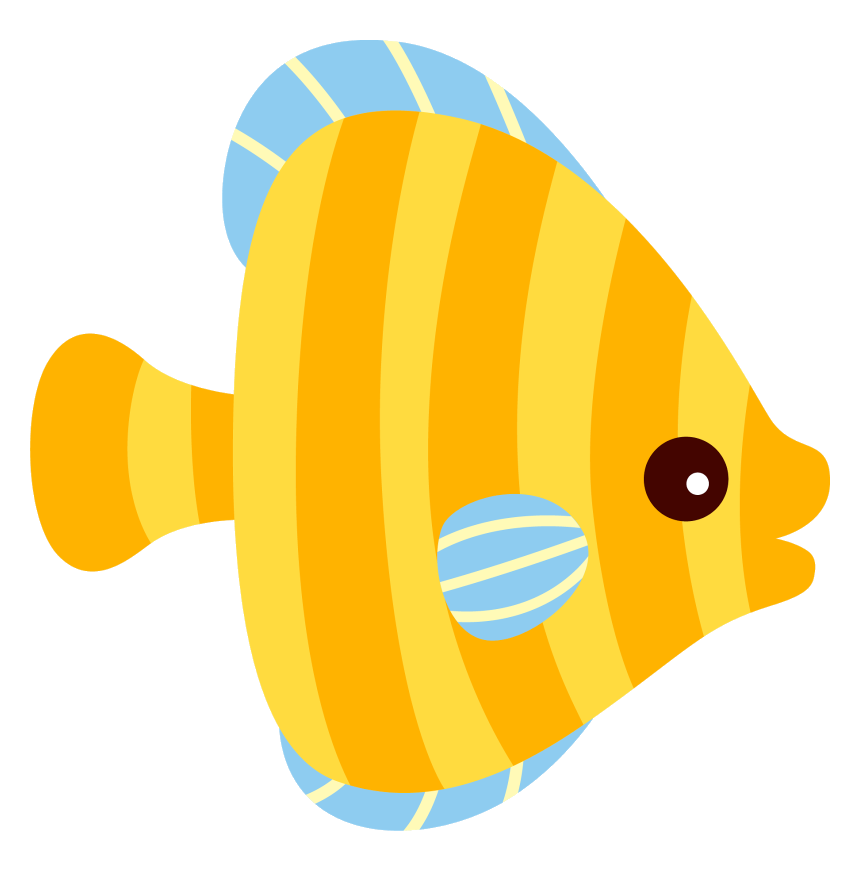
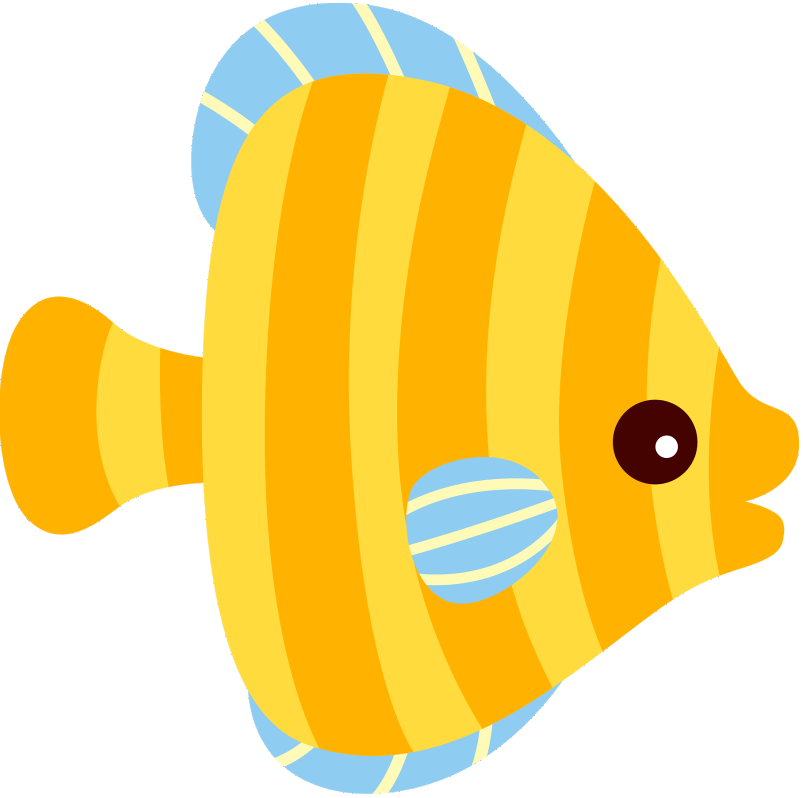
peixe colide com as algas e perde

Changed region(s): [[0.0, 0.0, 0.9963, 1.0], [0.4981, 0.2406, 0.5293, 0.4211]]

diff --git a/sala.py b/sala.py
@@ -9,7 +9,7 @@ imagem_peixe=r"imagem/peixe_amarelo.png"
 imagem_alga=r"imagem/alga-png-real.png"
 imagem_alga_invertida= r"imagem/alga-png-real-invertida.png"
 WIDTH = 800
-HEIGHT = 400
+HEIGHT = 600
 
 class alga(pygame.sprite.Sprite):
     def __init__(self,WIDTH,HEIGHT,numero):
@@ -19,6 +19,7 @@ class alga(pygame.sprite.Sprite):
         self.escala_y = self.alturas_alga[randint(0,3)]
         self.image = pygame.image.load(imagem_alga).convert_alpha()
         self.image = pygame.transform.scale(self.image, (60, self.escala_y))
+        self.mask = pygame.mask.from_surface(self.image)
         self.rect = self.image.get_rect()
         self.rect.x = WIDTH + 200*numero
         self.rect.y = HEIGHT-self.escala_y
@@ -39,10 +40,11 @@ class alga(pygame.sprite.Sprite):
 class alga_invertida(pygame.sprite.Sprite):
     def __init__(self,WIDTH,HEIGHT, algas):
         pygame.sprite.Sprite.__init__(self)
-        self.distancia= 110
+        self.distancia= 300
         self.escala_y_invertida= HEIGHT - algas.escala_y - self.distancia
         self.image = pygame.image.load(imagem_alga_invertida).convert_alpha()
         self.image = pygame.transform.scale(self.image, (60, self.escala_y_invertida))
+        self.mask = pygame.mask.from_surface(self.image)
         self.rect = self.image.get_rect()
         self.rect.x = algas.rect.x
         self.rect.y = 0
@@ -64,13 +66,14 @@ class peixe(pygame.sprite.Sprite):
         pygame.sprite.Sprite.__init__(self)
 
         self.image = pygame.image.load(imagem_peixe).convert_alpha()
-        self.image = pygame.transform.scale(self.image, (80, 40))
+        self.image = pygame.transform.scale(self.image, (40, 20))
+        self.mask = pygame.mask.from_surface(self.image)
         self.rect = self.image.get_rect()
         self.rect.x = WIDTH/2
         self.rect.y = HEIGHT/2
         self.speedx = 0
         self.speedy = 0
-        self.count = 2
+        self.count = 1
 
     def update(self):
         self.speedy += self.count
@@ -82,7 +85,7 @@ class peixe(pygame.sprite.Sprite):
             self.rect.y = 40
     
     def pulo(self):
-        self.speedy = -20
+        self.speedy = -10
        
 
 class fundo(pygame.sprite.Sprite):

diff --git a/game.py b/game.py
@@ -9,7 +9,7 @@ def jogo(window):
     imagem_alga_invertida= r"imagem/alga-png-real-invertida.png"
 
     WIDTH = 800
-    HEIGHT = 400
+    HEIGHT = 600
     
     clock = pygame.time.Clock()
     FPS = 30
@@ -55,23 +55,22 @@ def jogo(window):
         classe_fundo2.update()
         peixes.update()
         all_algas.update()
-        # algas_invertidas.update(alga1) 
         for event in pygame.event.get():
             if event.type == pygame.KEYDOWN:
                 if event.key == pygame.K_SPACE:
                     peixes.pulo()
             if event.type == pygame.QUIT:
                 game = False
+                return "QUIT"
 
         window.fill((173, 216, 230))
         window.blit(classe_fundo.image, (classe_fundo.rect.x, classe_fundo.rect.y))
         window.blit(classe_fundo2.image, (classe_fundo2.rect.x, classe_fundo2.rect.y))
         all_algas.draw(window)
-        # window.blit(algas_invertidas.image, (algas_invertidas.rect.x, algas_invertidas.rect.y))
         window.blit(pontuacao, (700, 10))
         window.blit(vidas_texto, (700, 30))
-        window.blit(peixes.image,(peixes.rect.x-110/2,peixes.rect.y-70/2))
-        hits = pygame.sprite.spritecollide(peixes, all_algas, False)
+        window.blit(peixes.image,(peixes.rect.x,peixes.rect.y))
+        hits = pygame.sprite.spritecollide(peixes, all_algas, False, pygame.sprite.collide_mask)
         if hits != [] and pygame.time.get_ticks() > colisao_anterior + 500:
             colisao_anterior = pygame.time.get_ticks()
             vidas -= 1

diff --git a/fim.py b/fim.py
@@ -4,7 +4,12 @@ from sala import HEIGHT, WIDTH
 
 def tela_final(window):
     imagem_fundo=r"imagem/fundo do mar - Copia.webp"
-    image = pygame.image.load(imagem_fundo).convert()
+    imagem_peixe_triste=r"imagem/peixe-triste.webp"
+
+    image_1 = pygame.image.load(imagem_fundo).convert()
+    image_2 = pygame.image.load(imagem_peixe_triste).convert_alpha()
+    image_2 = pygame.transform.scale(image_2,(100,150))
+
     font = pygame.font.SysFont(None, 48)
     text = font.render('VOCÊ PERDEU', True, (0, 0, 255))
     pygame.display.set_caption('flappy fish')
@@ -15,7 +20,9 @@ def tela_final(window):
             if event.type == pygame.QUIT:
                 game = False
 
-        window.blit(image, (0,0))
+        window.blit(image_1, (0,0))
+        window.blit(image_2, (WIDTH/2, HEIGHT/2))
+
         window.blit(text, (WIDTH/2, HEIGHT/2))
 
         pygame.display.update()  

diff --git a/tela_jogo.py b/tela_jogo.py
@@ -5,7 +5,7 @@ from fim import tela_final
 pygame.init()
 pygame.mixer.init()
 WIDTH = 800
-HEIGHT = 400
+HEIGHT = 600
 
 window = pygame.display.set_mode((WIDTH, HEIGHT))
 pygame.display.set_caption('Navinha')
